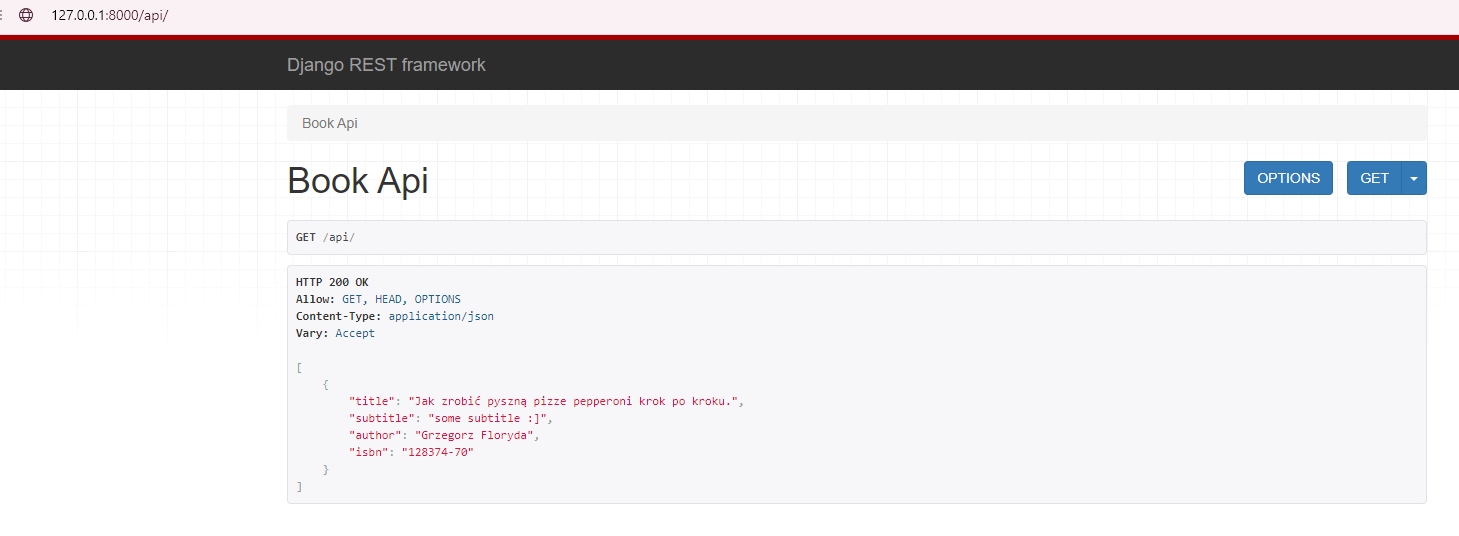
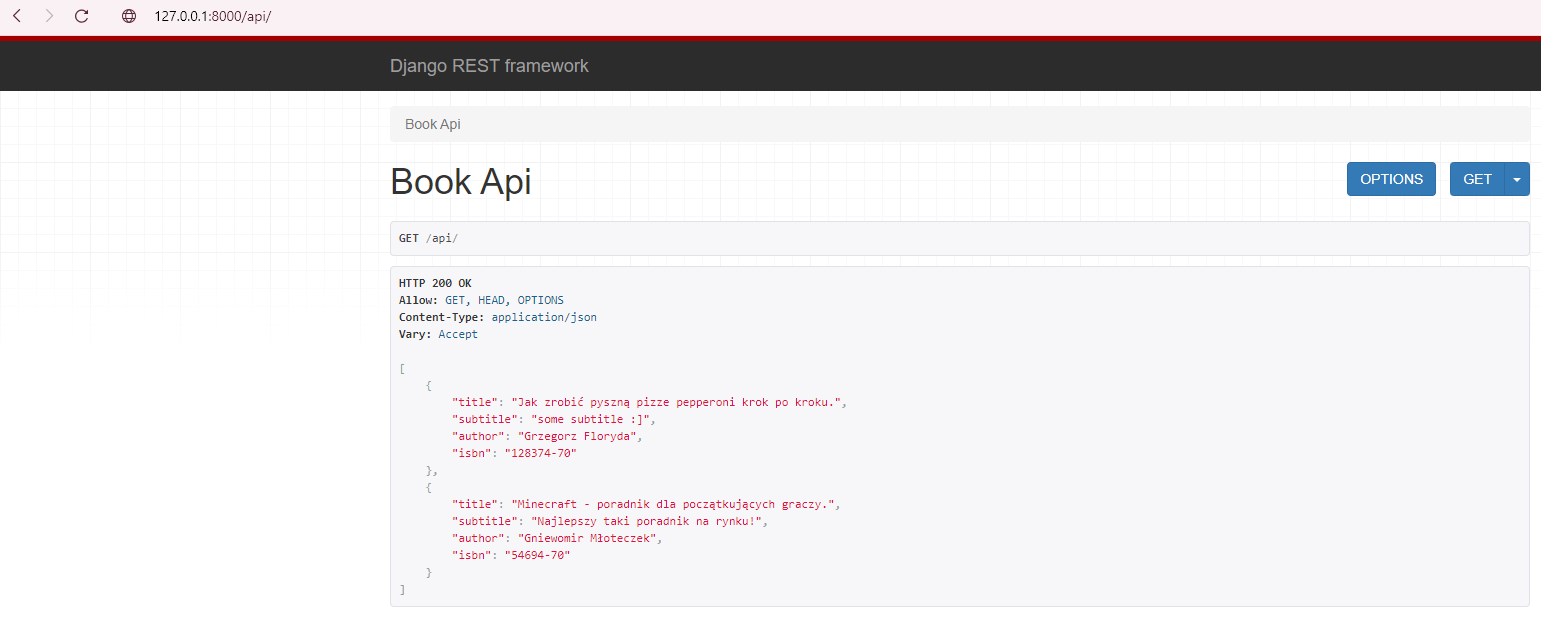
Laboratorium 4 readme
edycja readme

diff --git a/README.md b/README.md
@@ -1,6 +1,11 @@
 # Aplikacje internetowe 22665 195ICA
 
+<p><a href="#Laboratorium1">Laboratorium 1</a></p>
+<p><a href="#Laboratorium2">Laboratorium 2</a></p>  
+<p><a href="#Laboratorium3">Laboratorium 3</a></p>
+<p><a href="#Laboratorium4">Laboratorium 4</a></p>
 
+<a id="laboratorium1"></a>
 ## Laboratorium 1 - Blog
 
 Link do bloga na heroku - [BLOG](https://ewekmarchewek-blog.herokuapp.com/blog/)
@@ -28,7 +33,7 @@ Po kliknięciu na tytuł posta, wyświetlają się jego detale.
 
 ![panel_adm](assets/admin_pane.png)
 
-
+<a id="laboratorium2"></a>
 ## Laboratorium 2 - Blog i konta użytkowników.
 
 #### Widok bloga przed zalogowaniem się użytkownika.
@@ -51,3 +56,19 @@ Po kliknięciu na tytuł posta, wyświetlają się jego detale.
 
 #### Formularz resetowania hasła
 ![reset_password_form](assets/blog_resetpasswordform.png)
+
+<a id="laboratorium3"></a>
+## Laboratorium 3 - Różne sposoby uwierzytelniania.
+#### Uwierzytelnianie za pomocą Google
+![googleauth](assets/auth_google_working.png)
+#### Uwierzytelnianie za pomocą Facebooka
+![facebookauth](assets/auth_facebook_working.png)
+
+<a id="laboratorium4"></a>
+## Laboratorium 4 - REST API z DRF.
+#### Books ( dodanie własnej książki )
+![booksadd](assets/books_add.png)
+#### Books - wyświetlanie listy książek
+![books](assets/books.png)
+#### API Books
+![facebookauth](assets/api.png)
